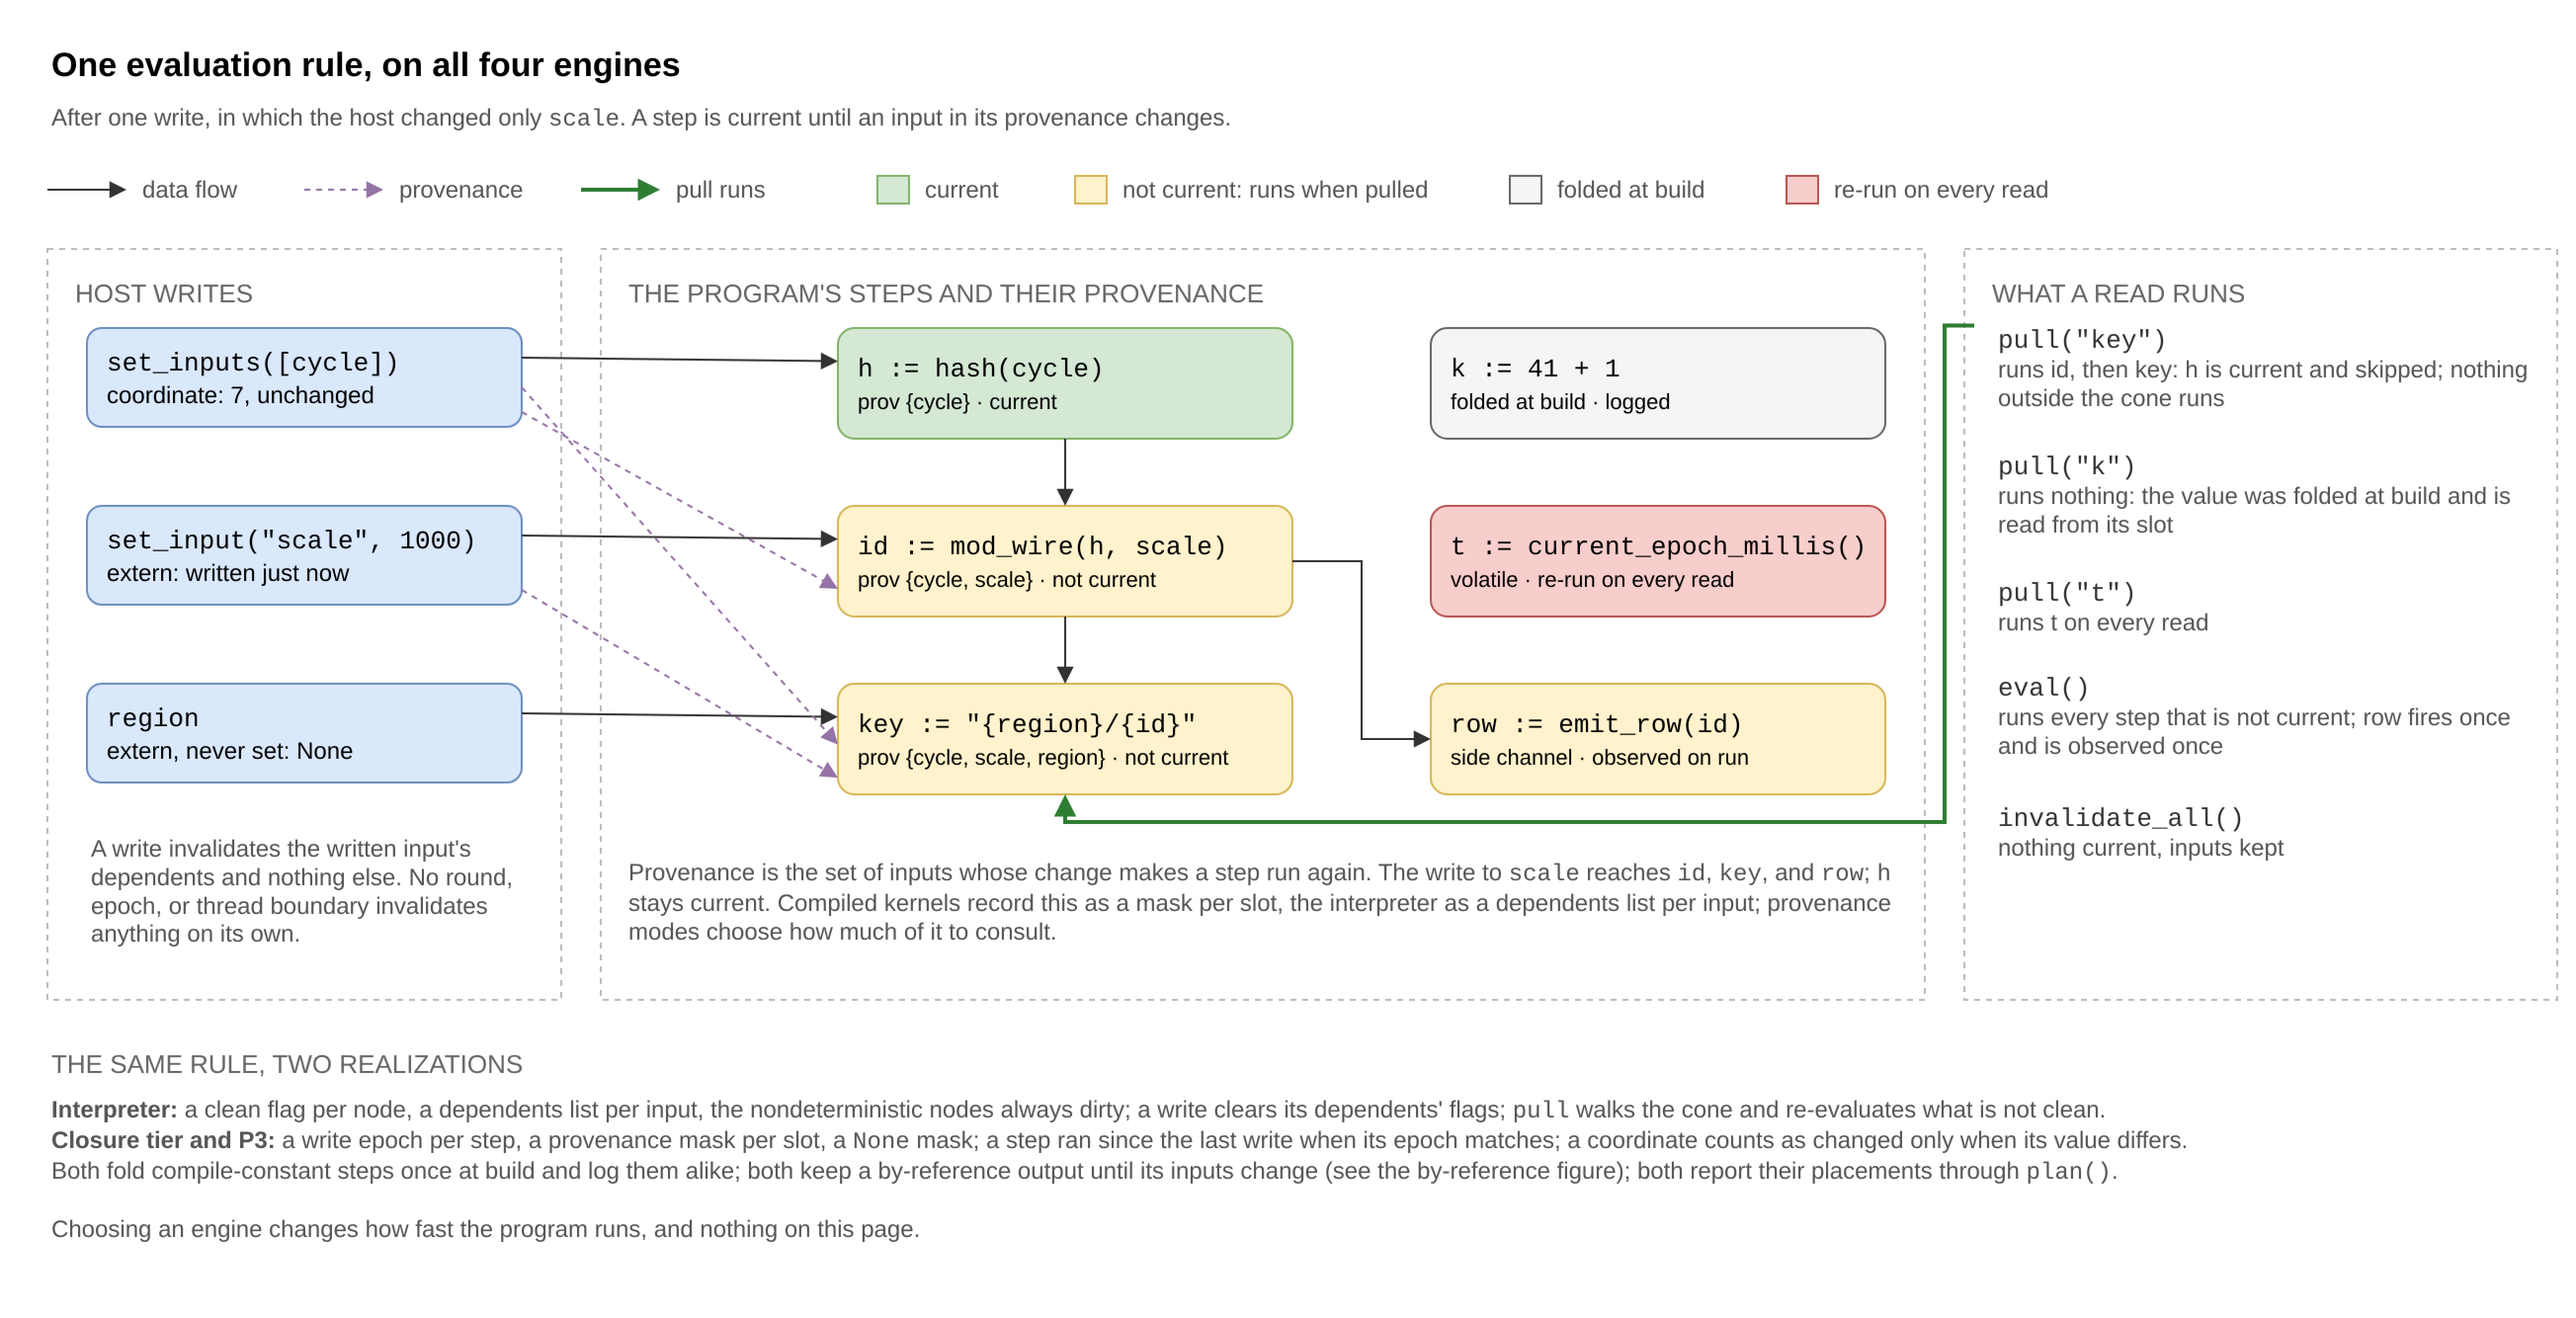
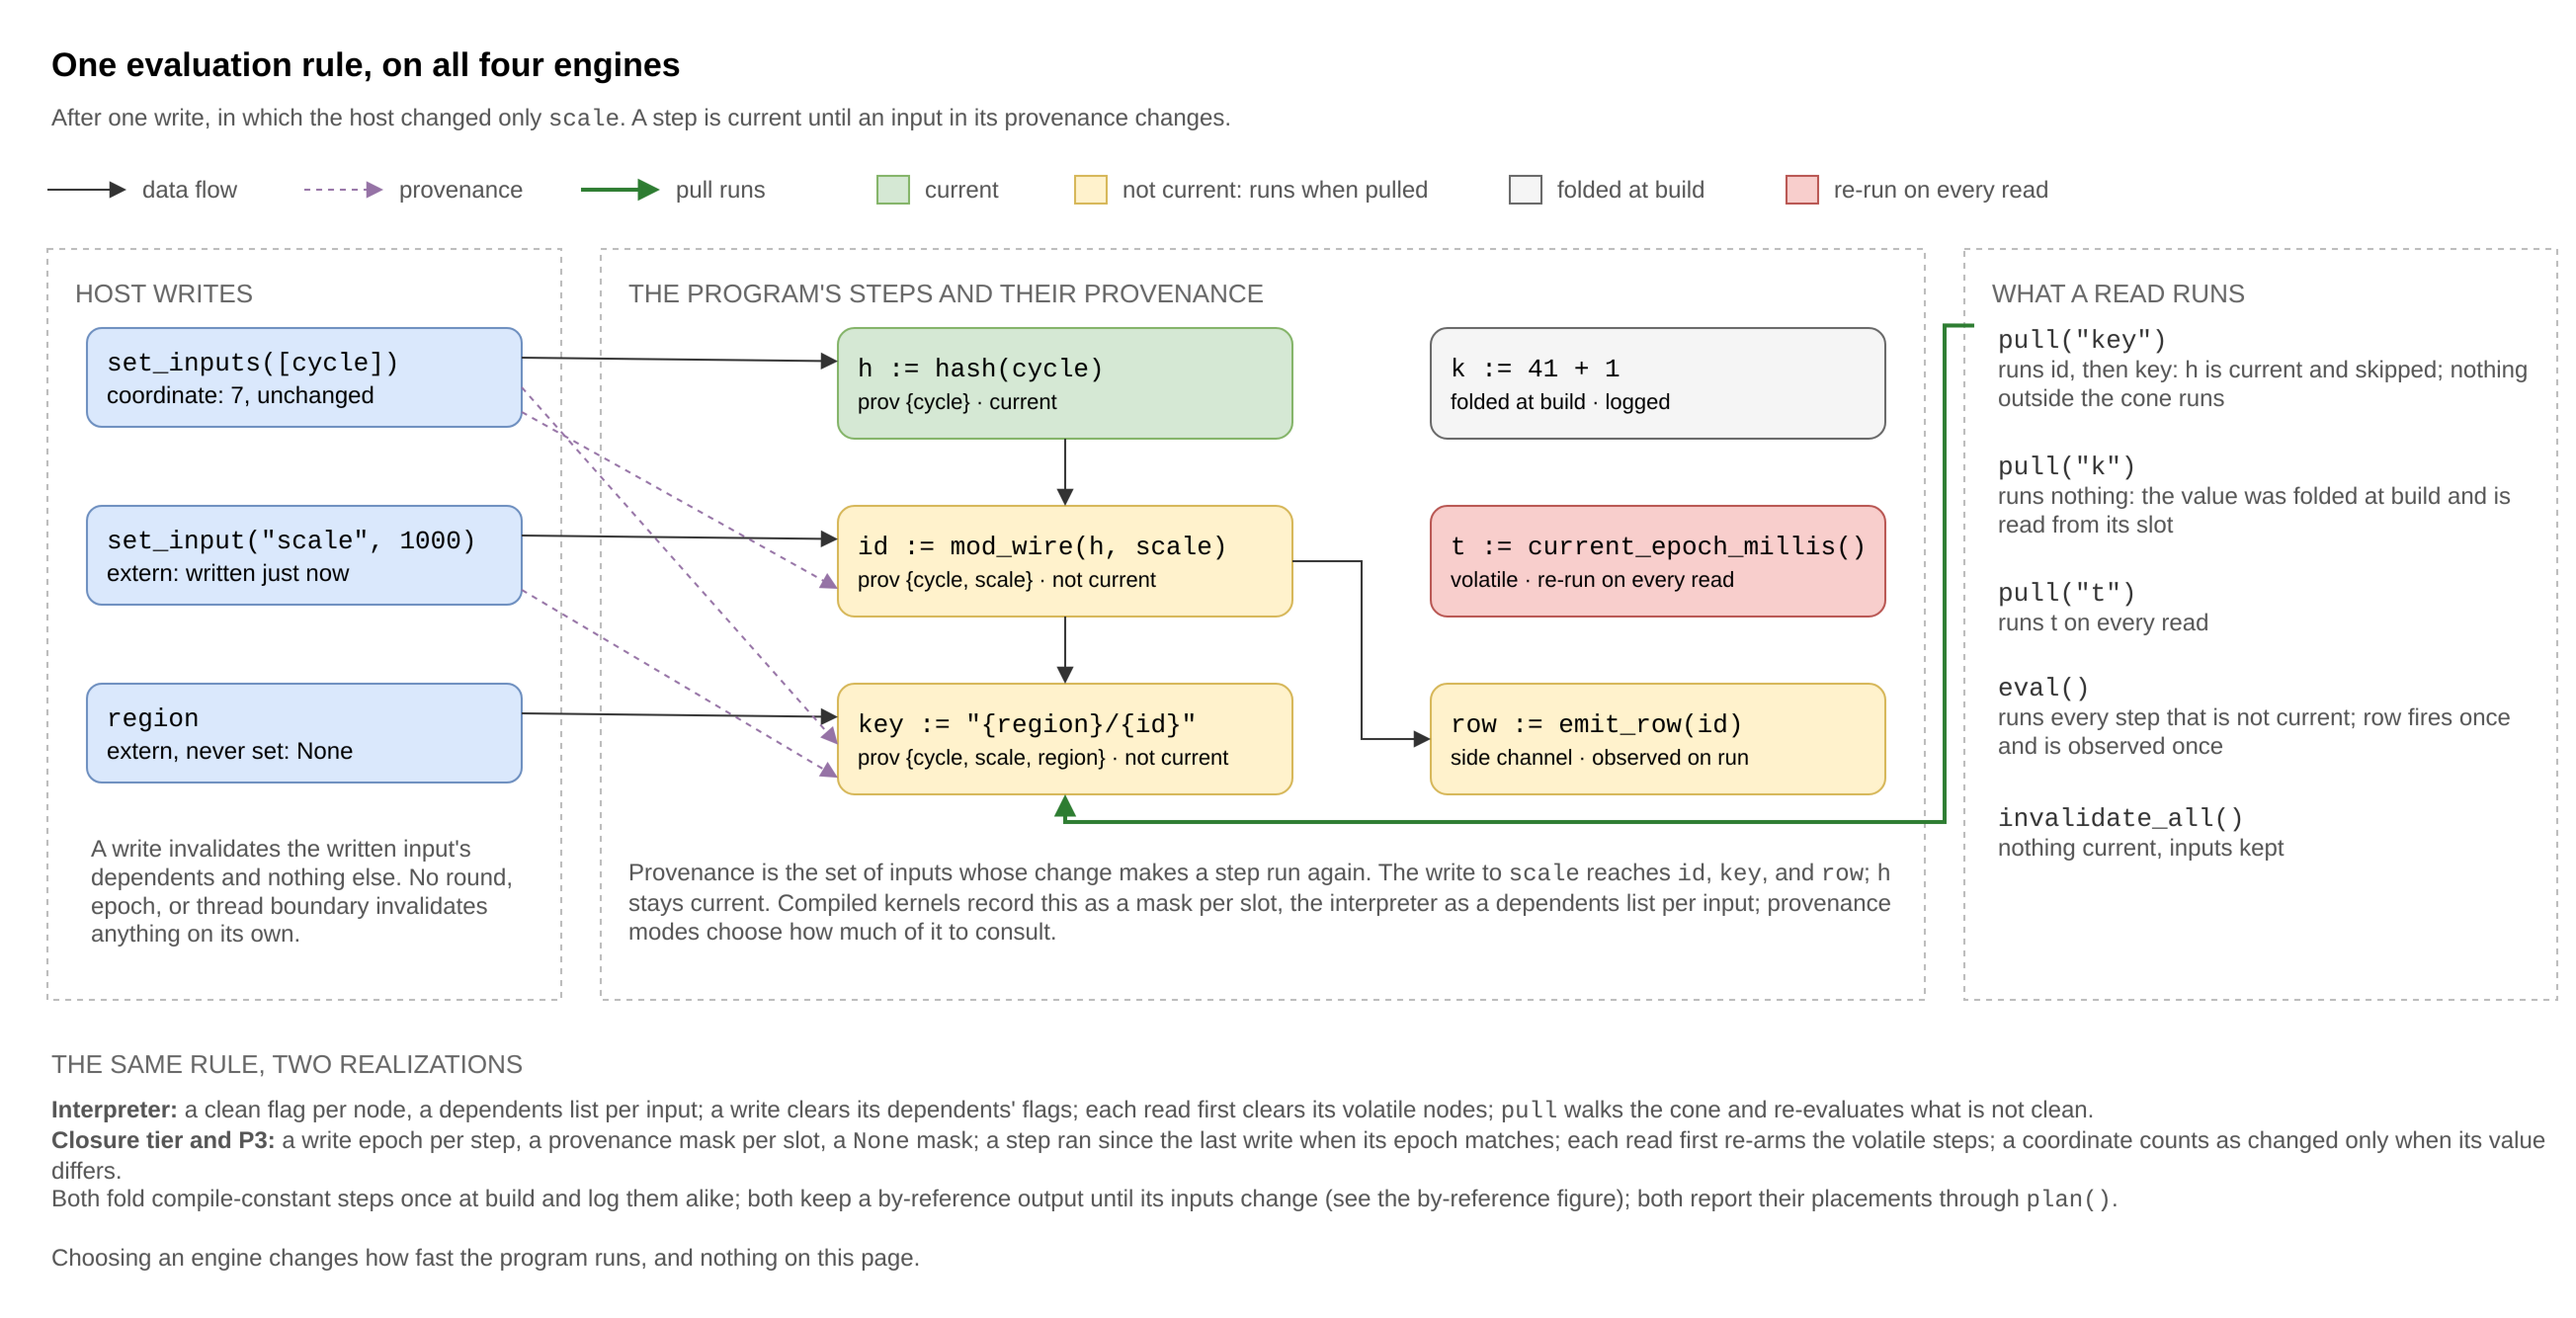
Align engine, evaluation, binder, comprehension, and diagram specs with the code
Pure native refuses only a node with neither a lowering nor a kit, and
a build without jit refuses pure native while Native runs as closures.
A side channel never shares a fusion unit on any engine. A write never
converts. The binder section states what a child copies, links, and
shares. NaturalOrder gains PendingSampling, and the §10.5 counts,
the strategy tutorial, and the evaluation-rule footer are corrected.

Changed region(s): [[0.0311, 0.8298, 0.9942, 0.9835]]

diff --git a/crates/polydat/docs/design/engines.md b/crates/polydat/docs/design/engines.md
@@ -26,7 +26,7 @@ runtime's evaluation rule and the ownership of every output).
 | Interpreter (P1) | `PolydatKernel` over `Box<dyn PolydatNode>` and typed `Value` buffers, with native cones per its `JitMode` | `Engine::Interpreter(mode)`; `compile_polydat_interpreter` and `PolydatAssembler::compile` for the concrete type |
 | Closure tier (P2) | Every node's generated closure over one flat `u64` slot buffer | `Engine::Closures(provenance)` |
 | Native (P3) | Cranelift native code for every node with a lowering and the node's closure elsewhere, over the same slot buffer, one native function per fusion unit: a connected, convex group of eligible nodes (§8) | `Engine::Native(provenance)`, in every build: without the `jit` feature the same kernel runs with every step a closure and no native segment in it |
-| Pure native | Cranelift native code and nothing else: no closure fallback, so a node without a lowering refuses the program | `Engine::PureNative(provenance)`, with `Raw` or `PushPull` only; refused by a build without the `jit` feature |
+| Pure native | Cranelift native code and nothing else: no closure fallback, so a node with a kit but no lowering runs through its kit, and a node with neither refuses the program | `Engine::PureNative(provenance)`, with `Raw` or `PushPull` only; refused by a build without the `jit` feature |
 
 The closure tier, native, and pure native are the three **compiled engines**;
 in this document "every compiled engine" means those three, and "all four
@@ -38,9 +38,10 @@ not internal. It differs from `Native` only in what it does with a node that
 has neither a native form nor a kit (the function the `#[polydat_node]` macro
 generates to run the node's body directly on the slot buffer, which native code
 can call; [compiled_handles.md](compiled_handles.md) §5): `Native` runs that node's closure and always succeeds, while
-pure native refuses the program and names the node. Pure native is therefore
-the only engine that tells a host whether a program is fully native; `Native`
-cannot, because it never fails for that reason. Every node in this library
+pure native refuses the program and names the node. Pure native runs the whole
+program as one native function, calling a node's kit where the node has no
+lowering, so it is the only engine that refuses a program in which some node
+neither lowers nor has a kit; `Native` never fails for that reason. Every node in this library
 has a native form, so the two tiers accept the same library programs; they
 differ only on a host's own registered nodes, which is where a node with no
 native form occurs in practice. Pure native supports the two provenance modes
@@ -203,7 +204,8 @@ function, a run does not execute the whole program:
   first dirties the units holding volatile steps (`volatile_units`), so each
   read runs them again.
 
-It refuses a node without a lowering and is `#[doc(hidden)]`: the
+It calls a node's kit where the node has no native lowering, refuses a node
+that has neither, and is `#[doc(hidden)]`: the
 differential suites and the ladder benchmarks construct it, and one engine's
 concrete kernel, through builders of their own, which are not a host
 surface. A host selects an engine with `Engine`.
@@ -665,7 +667,10 @@ inside an engine, not refusals:
     holds for pure native's units (the class bits of `compile/hybrid.rs`)
     and for the interpreter's native cones (`compile/cone.rs` passes the
     volatile class to `fusion_units::components`).
-  - A side channel is always a segment by itself.
+  - A side channel never shares a fusion unit with another node, so it fires
+    under its own currency on all four engines: on native it runs as a
+    closure step (`fusible` in `compile/hybrid.rs` excludes it), and on pure
+    native as a unit of its own (`side_channels` in `compile/assembly.rs`).
   - A leaf that reads only kernel inputs and that nothing reads, such as the
     copy exposing an input as an output, joins the first segment that reads
     one of the same inputs rather than being a native call of its own for one
@@ -691,7 +696,8 @@ inside an engine, not refusals:
     word) has no compiled form, because the compiled engines write an extern
     either as one slot value or as a pair naming the value the state stores.
     A program with such an extern runs on the interpreter.
-  - A build without the `jit` feature has no P3.
+  - A build without the `jit` feature refuses pure native. `Engine::Native`
+    still runs in such a build, with every step a closure (§1).
 - **The one runtime exception to "computes what the interpreter
   computes": an unset extern on pure native.** The interpreter, the
   closure tier, and P3 return `None` for a cleared or never-set extern

diff --git a/crates/polydat/docs/design/comprehension_forms.md b/crates/polydat/docs/design/comprehension_forms.md
@@ -2043,11 +2043,11 @@ index function to either `cartesian_0[i]` (i < 500_000) or
 `cartesian_1[i - 500_000]` (i ≥ 500_000), then descend into the
 chosen cartesian's lattice.
 
-Working set after all four rewrites (R4 → R5 → R2): 50 Halton
+Working set after all three rewrites (R4 → R5 → R2): 50 Halton
 draws + per-axis cursors. Sources stream. Total per-pull O(1)
 above the cursor count.
 
-If the author's intent was per-sub-space Halton (15 spread points
+If the author's intent was per-sub-space Halton (25 spread points
 per sub-space rather than 50 spread across the combined
 concatenation), N1 says they must author that form explicitly:
 
@@ -2205,6 +2205,7 @@ enum NaturalOrder {
   Lockstep,                        // zip
   Sequential,                      // union (operand 0 fully, then 1, ...)
   Strategy(StrategyName),          // order(non-Lex, _)
+  PendingSampling,                 // continuous source, no sampling order yet
 }
 
 enum Materialization {
@@ -2219,6 +2220,9 @@ closed-form numeric/symbolic descriptor. `IndexFn` is a typed
 enum, never an opaque callback. `StrategyName` is the §3.6
 named-strategy enum; adding a new strategy is a coordinated
 type extension (§14), not an open registration point.
+`PendingSampling` is the natural order of a continuous source
+that is waiting for a sampling order, and V8 refuses to dispense
+a source whose natural order is still `PendingSampling`.
 
 #### 10.7.2 Propagation rules
 
@@ -3296,8 +3300,9 @@ AST: `order(cartesian(clause(k, [1, 2, 4, 8]), clause(theta, 0.0..2*pi)), Lhs, S
   intervals: [(0,1), (0,1)], measure: Uniform }` *before*
   the outer order, `Bounded(100)` after; `index_addressable =
   Some(Continuous { ... })` before, `None` at the order's
-  output (per §10.7); `natural_order = Lex` before (cartesian's
-  natural order), `Strategy(Halton)` after.
+  output (per §10.7); `natural_order = PendingSampling` before
+  (a continuous cartesian has no order until it is sampled),
+  `Strategy(Halton)` after.
 
 This is the canonical continuous-parameter-sweep idiom. Most
 real workloads with continuous coordinates take this shape:

diff --git a/crates/polydat/docs/design/graph_compiler.md b/crates/polydat/docs/design/graph_compiler.md
@@ -523,14 +523,36 @@ Synthesis pillar (S1, S2): where the substrate states that the
 chain synthesises scope state into slots, Context Fusion
 performs that synthesis.
 
-T1 and T2 (type-checked slots) are enforced during synthesis:
-each slot's declared `PortType` is checked against the outer
-binding's value type, and a mismatch goes through the boundary
-adapter catalog (T2). L2 (lifecycle bridging) is the
-classification that selects the synthesis path: only slots
-with the effectively-const lifecycle (per H1) are filled by
-Context Fusion, and dynamic slots are written per cycle under
-S3.
+The binder, the part of Context Fusion that wires a child
+under its parent, fills each input the child declares from the
+parent binding of the same name, and the kind of that binding
+decides how the child sees it. Take a parent with these bindings:
+
+```
+extern region: str = "us"
+const batch := 1000
+load := hash(cycle)
+shared errors := 0
+```
+
+A child that mentions all four gets them as follows:
+
+- `region` and `batch` are copied into the child's inputs once,
+  when the child is created. A later change to either on the
+  parent is not seen by the child until the child is created or
+  bound again.
+- `load` is linked: the child's input reads the parent's output,
+  so each recompute of `load` on the parent is seen by the child.
+- `errors` is one register that parent and child share. Either
+  side reads the current value, and a write from either side is
+  seen by both.
+
+This is the value-copy, cell, and transit classification of
+CF3, applied to the parent's binding kinds. T1 and T2
+(type-checked slots) are enforced as each input is filled: the
+input's declared `PortType` is checked against the parent
+binding's value type, and a value copy that does not match goes
+through the boundary adapter catalog (T2).
 
 ---
 

diff --git a/crates/polydat/docs/design/evaluation_model.md b/crates/polydat/docs/design/evaluation_model.md
@@ -433,16 +433,23 @@ executor only passes `[cycle]`.
 
 An `extern name: type = default` declaration produces an
 `InputDef` with `InputKind::ExternalWrite`. External producers
-write these inputs through the deprecated `Dataflow::set_wire`
-API (on the interpreter kernel) or through `Kernel::set_input`
-(on all four engines). The boundary accepts `Value::None`,
-accepts a value that satisfies the declared slot type, applies
-a registered boundary adapter when one exists, and otherwise
-returns an error.
+write these inputs through `Kernel::set_input` (by name) or
+`Kernel::set_input_at` (by input index), on all four engines
+(interpreter, closure tier, native, and pure native). A write
+never converts a value. The write accepts a value that
+satisfies the input's declared type, or `None`, which clears
+the input to unset; it refuses anything else with
+`WriteError::TypeMismatch`, naming the input, its declared
+type, and the type given. A host that holds a value of another
+type converts it with `polydat::convert::to_port` before the
+write, or opens the input with `CompileOptions::input_variance`
+so that the compiler places a converter in front of its readers
+([input_variance.md](input_variance.md)). The same rule is
+Axiom S4 of [composition_substrate.md](composition_substrate.md).
 
 ```
 Producer writes to slot "user_name"
-  → kernel.set_wire("user_name", value)?
+  → kernel.set_input("user_name", value)?
   → input slot in the kernel holds the value
 
 Consumer pulls a binding that reads {user_name}

diff --git a/crates/polydat/docs/tutorials/illustrations.md b/crates/polydat/docs/tutorials/illustrations.md
@@ -397,9 +397,11 @@ halton/5        5  (2,20) (1,30) (3,10) (1,20) (2,30)
 where           4  (2,10) (2,30) (3,10) (3,30)
 ```
 
-Every strategy is a decidable permutation of the same nine points, so
-the optimizer can reason about it and a run can be replayed from its
-position. `extrema` visits the corners first, `shells` works inward
+Each strategy visits the nine points in a decidable order, so a run
+can be replayed from its position. The number after the slash keeps a
+prefix of that order (the first k strata for `extrema`, the first n
+points for `halton`), and `where` keeps the points that satisfy it.
+`extrema` visits the corners first, `shells` works inward
 from the boundary, and `halton` is a low-discrepancy sample that
 covers the space evenly however early it is cut off. A
 `CoordinateStream` yields the tuples; a `ScopedKernelStream` yields a

diff --git a/crates/polydat/docs/design/runtime_model.md b/crates/polydat/docs/design/runtime_model.md
@@ -656,8 +656,10 @@ sinks have no combined total-order guarantee.
 Every node exposes `PolydatNode::purity()`.
 `Purity::SideChannel` names its sink; `Purity::Nondeterministic`
 names the reason that input-only determinism does not hold. A
-side-channel step is never fused into a native segment, so it fires under the same currency rule on all four
-engines.
+side channel never shares a fusion unit with another node, so it fires
+under its own currency on all four engines: on native it runs as a closure
+step, and on pure native as a unit of its own
+([engines.md](engines.md) §8).
 
 ### Axiom D3 — Cost Determinism
 
